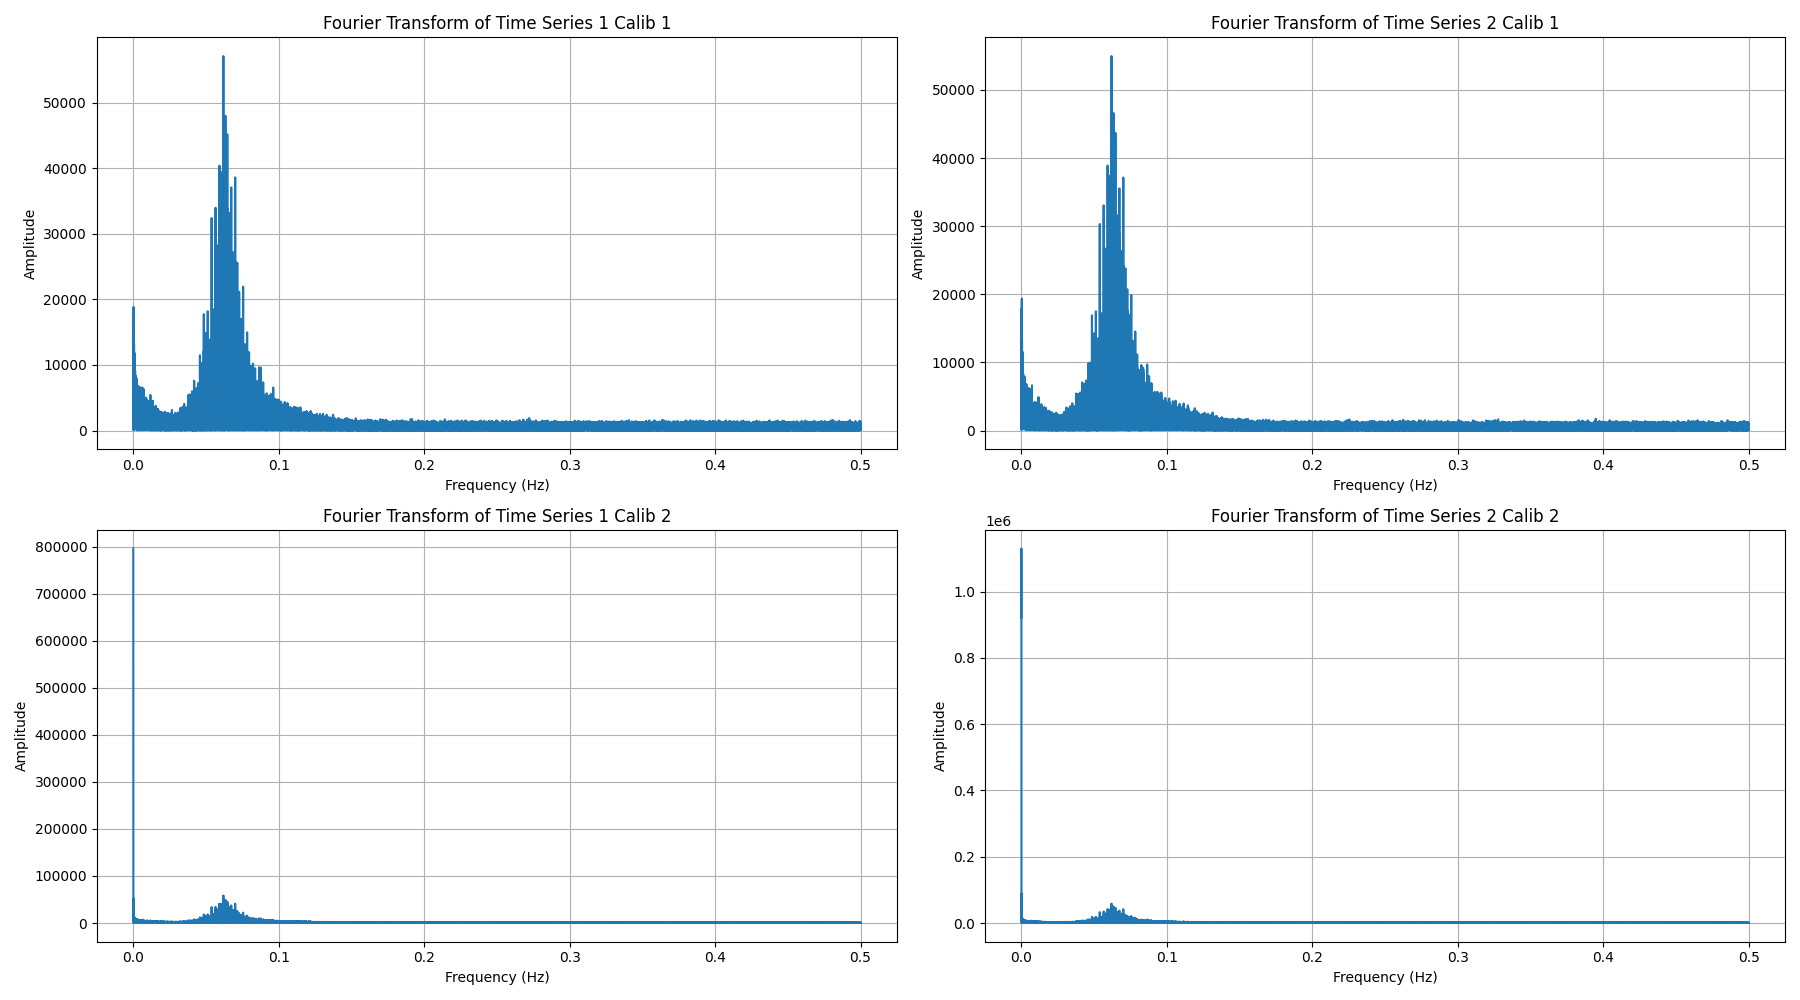
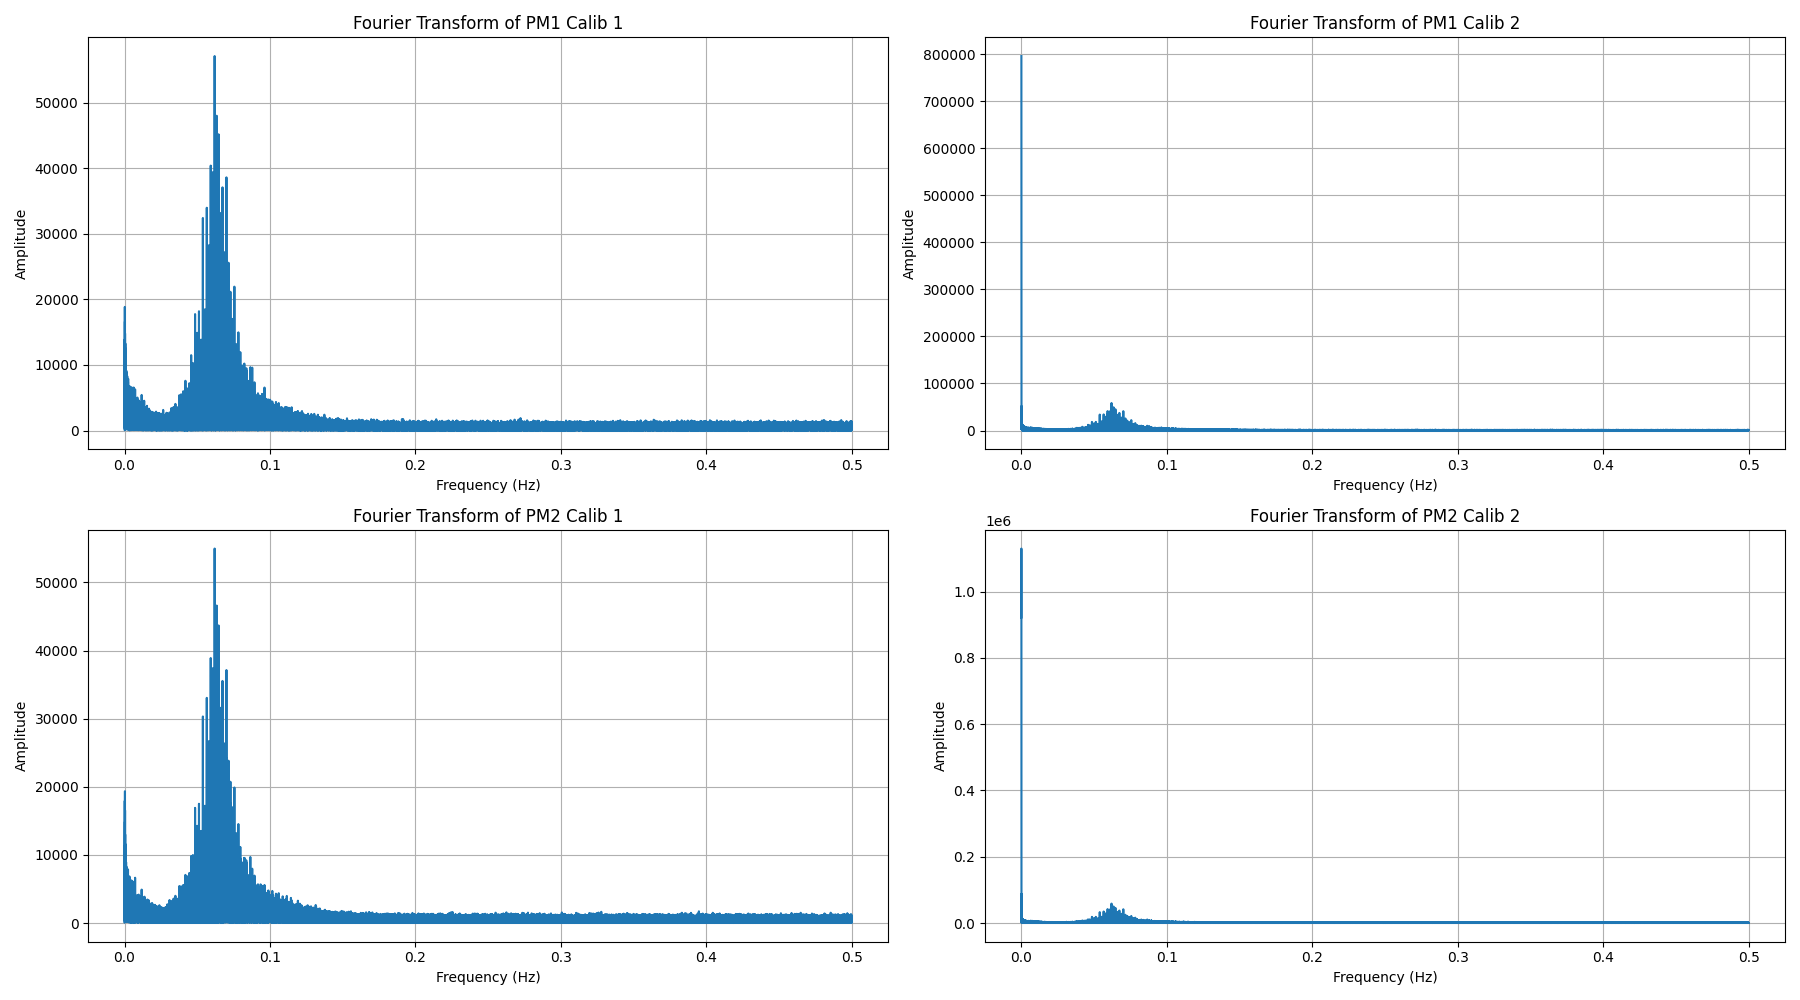
chore: renaming the images properly

diff --git a/fourier_analysis.py b/fourier_analysis.py
@@ -6,8 +6,8 @@ import scipy.fft as fft
 path = 'Dossier_project_data_articles/'
 
 time_series_1_1 = np.genfromtxt(path+'data2_calib1_pm1_960411_961010.dat')
-time_series_1_2 = np.genfromtxt(path+'data2_calib1_pm2_960411_961010.dat')
-time_series_2_1 = np.genfromtxt(path+'data2_calib2_pm1_960411_961010.dat')
+time_series_1_2 = np.genfromtxt(path+'data2_calib2_pm1_960411_961010.dat')
+time_series_2_1 = np.genfromtxt(path+'data2_calib1_pm2_960411_961010.dat')
 time_series_2_2 = np.genfromtxt(path+'data2_calib2_pm2_960411_961010.dat')
 
 time_series_1_1 = time_series_1_1.flatten()
@@ -43,28 +43,28 @@ plt.figure(figsize=(18, 10))
 
 plt.subplot(2, 2, 1)
 plt.plot(f, np.abs(fft_1_1))
-plt.title('Fourier Transform of Time Series 1 Calib 1')
+plt.title('Fourier Transform of PM1 Calib 1')
 plt.xlabel('Frequency (Hz)')
 plt.ylabel('Amplitude')
 plt.grid()
 
 plt.subplot(2, 2, 2)
 plt.plot(f, np.abs(fft_1_2))
-plt.title('Fourier Transform of Time Series 2 Calib 1')
+plt.title('Fourier Transform of PM1 Calib 2')
 plt.xlabel('Frequency (Hz)')
 plt.ylabel('Amplitude')
 plt.grid()
 
 plt.subplot(2, 2, 3)
 plt.plot(f, np.abs(fft_2_1))
-plt.title('Fourier Transform of Time Series 1 Calib 2')
+plt.title('Fourier Transform of PM2 Calib 1')
 plt.xlabel('Frequency (Hz)')
 plt.ylabel('Amplitude')
 plt.grid()
 
 plt.subplot(2, 2, 4)
 plt.plot(f, np.abs(fft_2_2))
-plt.title('Fourier Transform of Time Series 2 Calib 2')
+plt.title('Fourier Transform of PM2 Calib 2')
 plt.xlabel('Frequency (Hz)')
 plt.ylabel('Amplitude')
 plt.grid()

diff --git a/time_series.py b/time_series.py
@@ -12,8 +12,8 @@ The data should be read across then down.
 path = 'Dossier_project_data_articles/'
 
 time_series_1_1 = np.genfromtxt(path+'data2_calib1_pm1_960411_961010.dat')
-time_series_1_2 = np.genfromtxt(path+'data2_calib1_pm2_960411_961010.dat')
-time_series_2_1 = np.genfromtxt(path+'data2_calib2_pm1_960411_961010.dat')
+time_series_1_2 = np.genfromtxt(path+'data2_calib2_pm1_960411_961010.dat')
+time_series_2_1 = np.genfromtxt(path+'data2_calib1_pm2_960411_961010.dat')
 time_series_2_2 = np.genfromtxt(path+'data2_calib2_pm2_960411_961010.dat')
 
 time_series_1_1 = time_series_1_1.flatten()
@@ -51,28 +51,28 @@ plt.figure(figsize=(18, 10))
 
 plt.subplot(2, 2, 1)
 plt.plot(time_array_1_1, time_series_1_1)
-plt.title('Time Series 1 Calib 1')
+plt.title('PM1 Calib 1')
 plt.xlabel('Time (days)')
 plt.ylabel('Value')
 plt.grid()
 
 plt.subplot(2, 2, 2)
 plt.plot(time_array_1_2, time_series_1_2)
-plt.title('Time Series 2 Calib 1')
+plt.title('PM1 Calib 2')
 plt.xlabel('Time (days)')
 plt.ylabel('Value')
 plt.grid()
 
 plt.subplot(2, 2, 3)
 plt.plot(time_array_2_1, time_series_2_1)
-plt.title('Time Series 1 Calib 2')
+plt.title('PM2 Calib 1')
 plt.xlabel('Time (days)')
 plt.ylabel('Value')
 plt.grid()
 
 plt.subplot(2, 2, 4)
 plt.plot(time_array_2_2, time_series_2_2)
-plt.title('Time Series 2 Calib 2')
+plt.title('PM2 Calib 2')
 plt.xlabel('Time (days)')
 plt.ylabel('Value')
 plt.grid()
